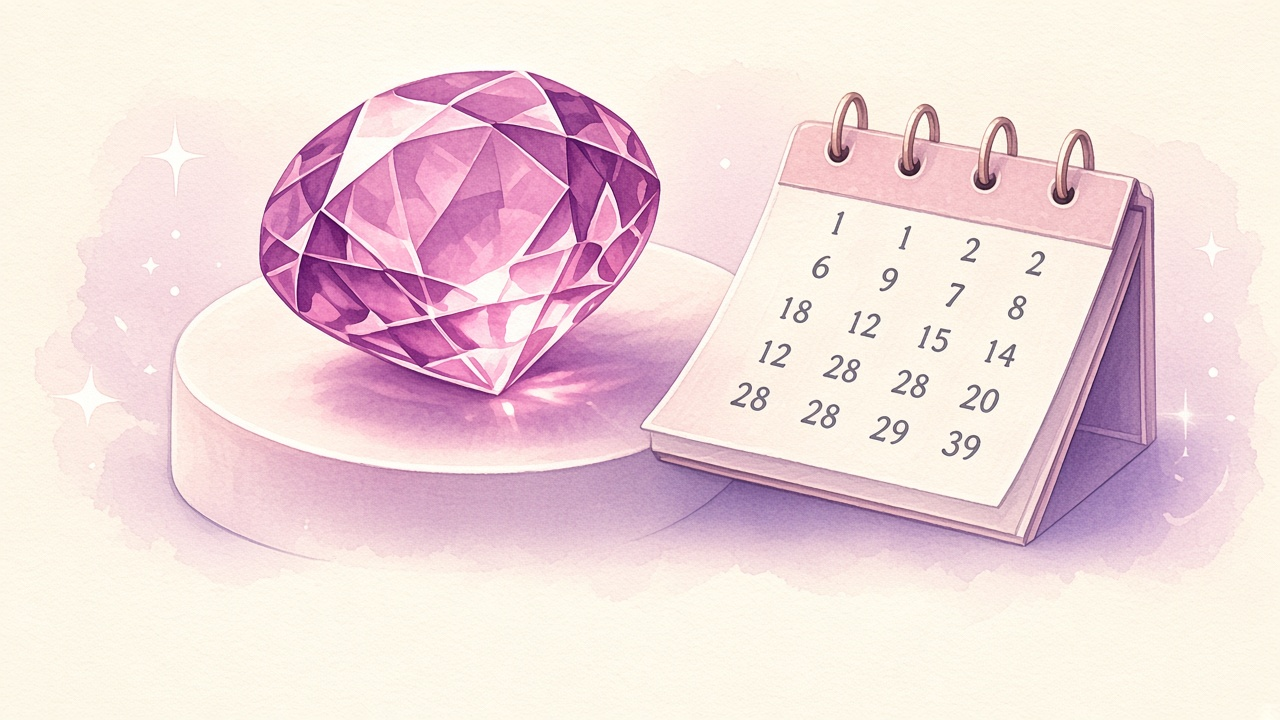
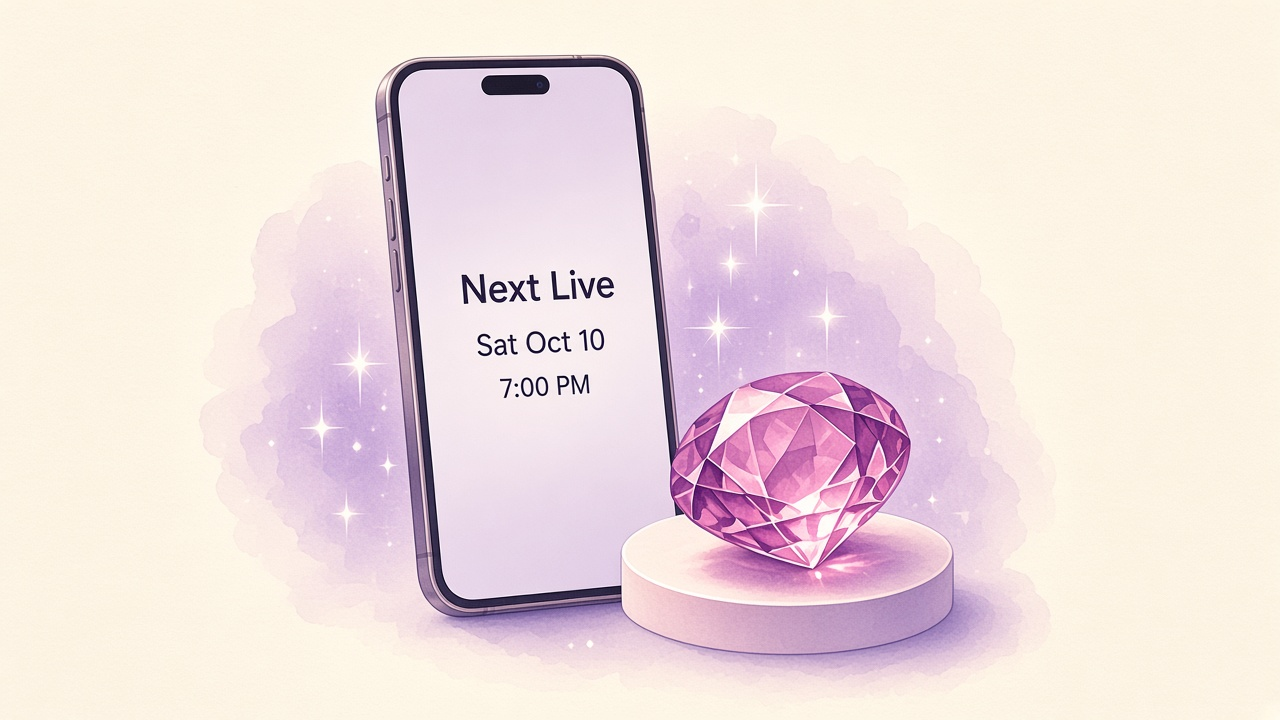
fix(finder): replace the Go to the show calendar with a Next Live phone
The desk calendar is gone. The card art is a phone reminder beside the pedestal gem.

diff --git a/apps/finder/vault/2026-10-05-learn-next-live-art-closeout.md b/apps/finder/vault/2026-10-05-learn-next-live-art-closeout.md
@@ -1,0 +1,3 @@
+# 2026-10-05 /learn Go to the show art
+
+The desk calendar is gone from `go-to-the-show.png`. The painting is a phone with a Next Live screen (Sat Oct 10, 7:00 PM) and a pedestal gem. No date grid and no baked card title. Not deployed.
